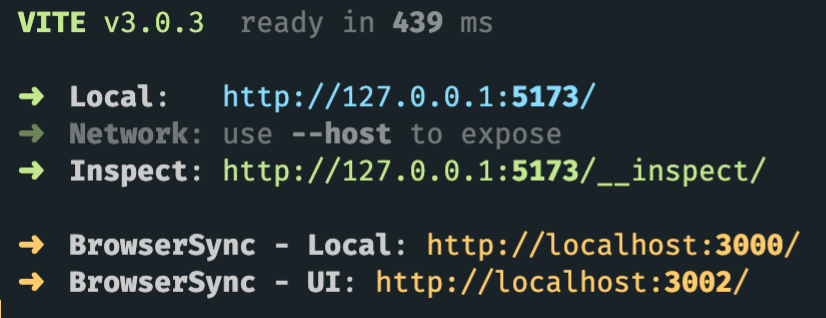
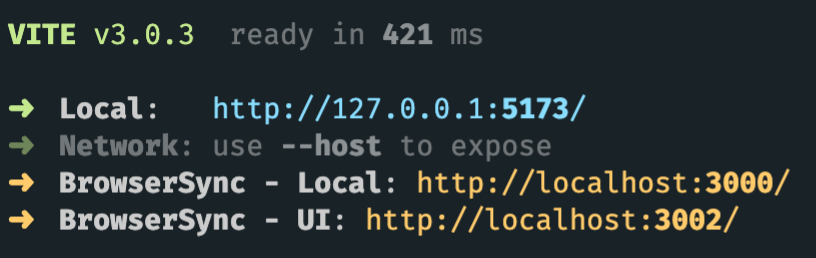
improve login

diff --git a/src/index.ts b/src/index.ts
@@ -24,6 +24,7 @@ export default function VitePluginBrowserSync(options?: Options): Plugin {
       config = _config
     },
     configureServer(server) {
+      let viteJSLog = false
       bs = browserSync.create(name)
 
       // prepare browser sync options
@@ -33,6 +34,7 @@ export default function VitePluginBrowserSync(options?: Options): Plugin {
 
       if (typeof bsOptions.logLevel === 'undefined') {
         bsOptions.logLevel = 'silent'
+        viteJSLog = true
       }
 
       if (typeof bsOptions.open === 'undefined') {
@@ -91,45 +93,43 @@ export default function VitePluginBrowserSync(options?: Options): Plugin {
 
         await new Promise(resolve => {
           bs.init(bsOptions, () => {
-            if (bsOptions.logLevel === 'silent') {
-              const _print = server.printUrls
-              const urls: Record<string, string> = bs.getOption('urls').toJS()
-
-              const colorUrl = (url: string) =>
-                lightYellow(
-                  url.replace(/:(\d+)$/, (_, port) => `:${bold(port)}/`)
-                )
-
-              server.printUrls = () => {
-                _print()
-
-                const consoleTexts =
-                  mode === 'snippet'
-                    ? { ui: 'UI' }
-                    : {
-                        local: 'Local',
-                        external: 'External',
-                        ui: 'UI',
-                        'ui-external': 'UI External'
-                      }
-                for (const key in consoleTexts) {
-                  if (Object.prototype.hasOwnProperty.call(consoleTexts, key)) {
-                    const text = consoleTexts[key]
-                    if (Object.prototype.hasOwnProperty.call(urls, key)) {
-                      console.log(
-                        `  ${lightYellow('➜')}  ${bold(
-                          'BrowserSync - ' + text
-                        )}: ${colorUrl(urls[key])}`
-                      )
-                    }
-                  }
-                }
-              }
-            }
             resolve(true)
           })
         })
         return out
+      }
+
+      if (viteJSLog) {
+        const _print = server.printUrls
+
+        const colorUrl = (url: string) =>
+          lightYellow(url.replace(/:(\d+)$/, (_, port) => `:${bold(port)}/`))
+        server.printUrls = () => {
+          const urls: Record<string, string> = bs.getOption('urls').toJS()
+          _print()
+
+          const consoleTexts =
+            mode === 'snippet'
+              ? { ui: 'UI' }
+              : {
+                  local: 'Local',
+                  external: 'External',
+                  ui: 'UI',
+                  'ui-external': 'UI External'
+                }
+          for (const key in consoleTexts) {
+            if (Object.prototype.hasOwnProperty.call(consoleTexts, key)) {
+              const text = consoleTexts[key]
+              if (Object.prototype.hasOwnProperty.call(urls, key)) {
+                console.log(
+                  `  ${lightYellow('➜')}  ${bold(
+                    'BrowserSync - ' + text
+                  )}: ${colorUrl(urls[key])}`
+                )
+              }
+            }
+          }
+        }
       }
 
       const _close = server.close

diff --git a/demo/vite.config.ts b/demo/vite.config.ts
@@ -2,5 +2,5 @@ import Inspect from 'vite-plugin-inspect'
 import VitePluginBrowserSync from '../src'
 
 export default {
-  plugins: [VitePluginBrowserSync(), Inspect()]
+  plugins: [Inspect(), VitePluginBrowserSync()]
 }

diff --git a/README.md b/README.md
@@ -4,6 +4,12 @@
 
 Add [BrowserSync](https://browsersync.io) in your Vite project
 
+<p align="center">
+<a href="https://github.com/Applelo/vite-plugin-browser-sync/blob/main/screenshot.png?raw=true">
+<img src="https://raw.githubusercontent.com/Applelo/vite-plugin-browser-sync/main/screenshot.png?raw=true"/>
+</a>
+</p>
+
 ## 📦 Install
 
 ```
